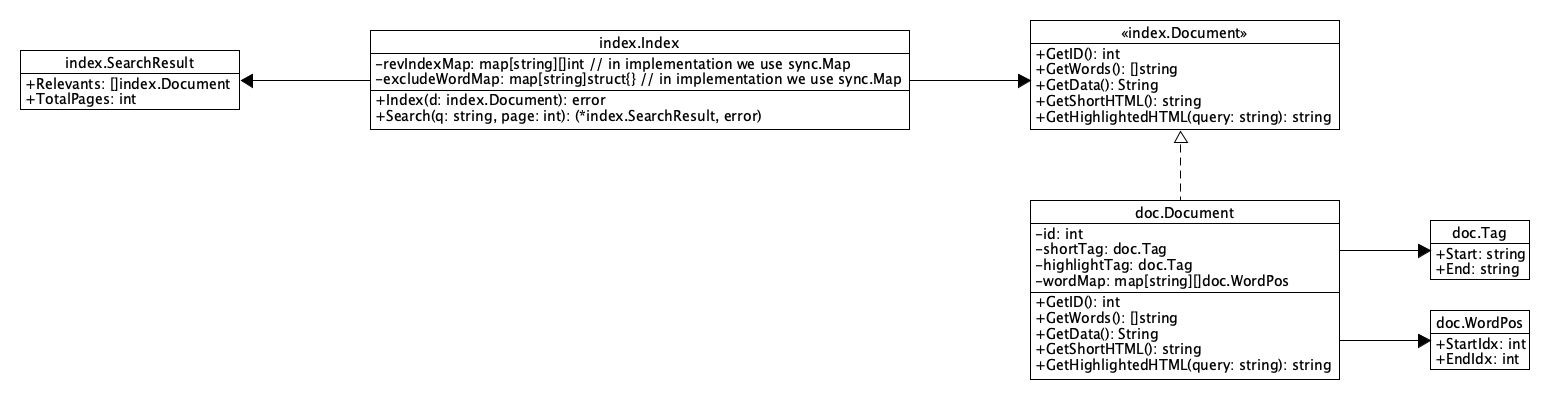
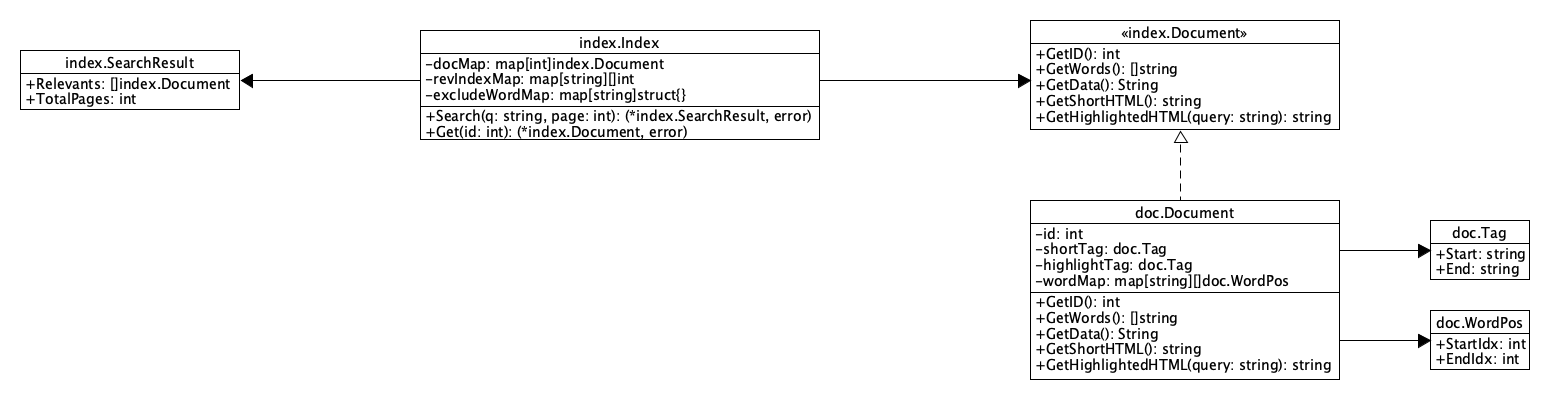
create skeleton for index module; finish index.New(); work on progress;

Changed region(s): [[0.2477, 0.12, 0.5884, 0.36], [0.3716, 0.09, 0.4335, 0.12]]

diff --git a/internal/index/index.go b/internal/index/index.go
@@ -1,0 +1,74 @@
+package index
+
+import "errors"
+
+// ErrDocNotFound represents error returned when document is not found
+var ErrDocNotFound = errors.New("ERR_DOC_NOT_FOUND")
+
+// Index represents in-memory index for documents
+type Index struct {
+	docMap         map[int]Document
+	revIndexMap    map[string][]int
+	excludeWordMap map[string]struct{}
+}
+
+// Configs holds configs for Index
+type Configs struct {
+	Documents     []Document
+	ExcludedWords []string
+}
+
+// New returns new instance of Index
+func New(c Configs) (*Index, error) {
+	// construct exclude word map
+	excludeWordMap := map[string]struct{}{}
+	for _, word := range c.ExcludedWords {
+		excludeWordMap[word] = struct{}{}
+	}
+	// construct document map & reverse index map
+	docMap := map[int]Document{}
+	revIndexMap := map[string][]int{}
+	for _, doc := range c.Documents {
+		// set the document in document map
+		docMap[doc.GetID()] = doc
+		// get doc words and iterate on them
+		for _, word := range doc.GetWords() {
+			// if word is excluded, just skip it
+			_, skipped := excludeWordMap[word]
+			if skipped {
+				continue
+			}
+			// get current document ids for word
+			v, ok := revIndexMap[word]
+			if !ok {
+				// if it's new word, initialize new list
+				v = []int{}
+			}
+			// insert current document id to map
+			v = append(v, doc.GetID())
+			revIndexMap[word] = v
+		}
+	}
+	// initialize index
+	i := Index{
+		docMap:         docMap,
+		revIndexMap:    revIndexMap,
+		excludeWordMap: excludeWordMap,
+	}
+	return &i, nil
+}
+
+// Search returns relevant documents based on given query
+func (i *Index) Search(q string, page int) (*SearchResult, error) {
+	// TODO
+	return nil, nil
+}
+
+// Get returns index for given id, throws error if id is not exists
+func (i *Index) Get(id int) (*Document, error) {
+	v, ok := i.docMap[id]
+	if !ok {
+		return nil, ErrDocNotFound
+	}
+	return &v, nil
+}

diff --git a/internal/index/data.go b/internal/index/data.go
@@ -1,0 +1,16 @@
+package index
+
+// Document represents single document indexed
+type Document interface {
+	GetID() int
+	GetWords() []string
+	GetData() string
+	GetShortHTML() string
+	GetHighlightedHTML(query string) string
+}
+
+// SearchResult represents result of Search()
+type SearchResult struct {
+	Relevants  []Document
+	TotalPages int
+}
